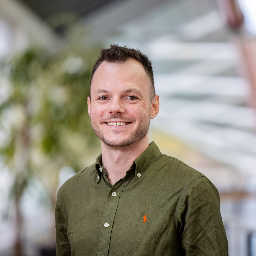
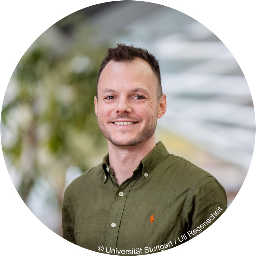
updates image with copyright

diff --git a/config.js b/config.js
@@ -176,9 +176,6 @@ export const memberConfig = [
     <p>
     Please contact me if you are interested in thesis writing or collaboration opportunities or have any questions about my research. I look forward to hearing from you.
     </p>
-    <p>
-    Picture: Universität Stuttgart / Uli Regenscheit.
-    </p>
     `,
     research: ['HCI', 'AR/ VR', 'Information Visualization'],
     links: [

diff --git a/members/christian_krauter.html b/members/christian_krauter.html
@@ -51,9 +51,6 @@
     <p>
     Please contact me if you are interested in thesis writing or collaboration opportunities or have any questions about my research. I look forward to hearing from you.
     </p>
-    <p>
-    Picture: Universität Stuttgart / Uli Regenscheit.
-    </p>
     </div>
           </div>
           <div class="furtherInfo">
